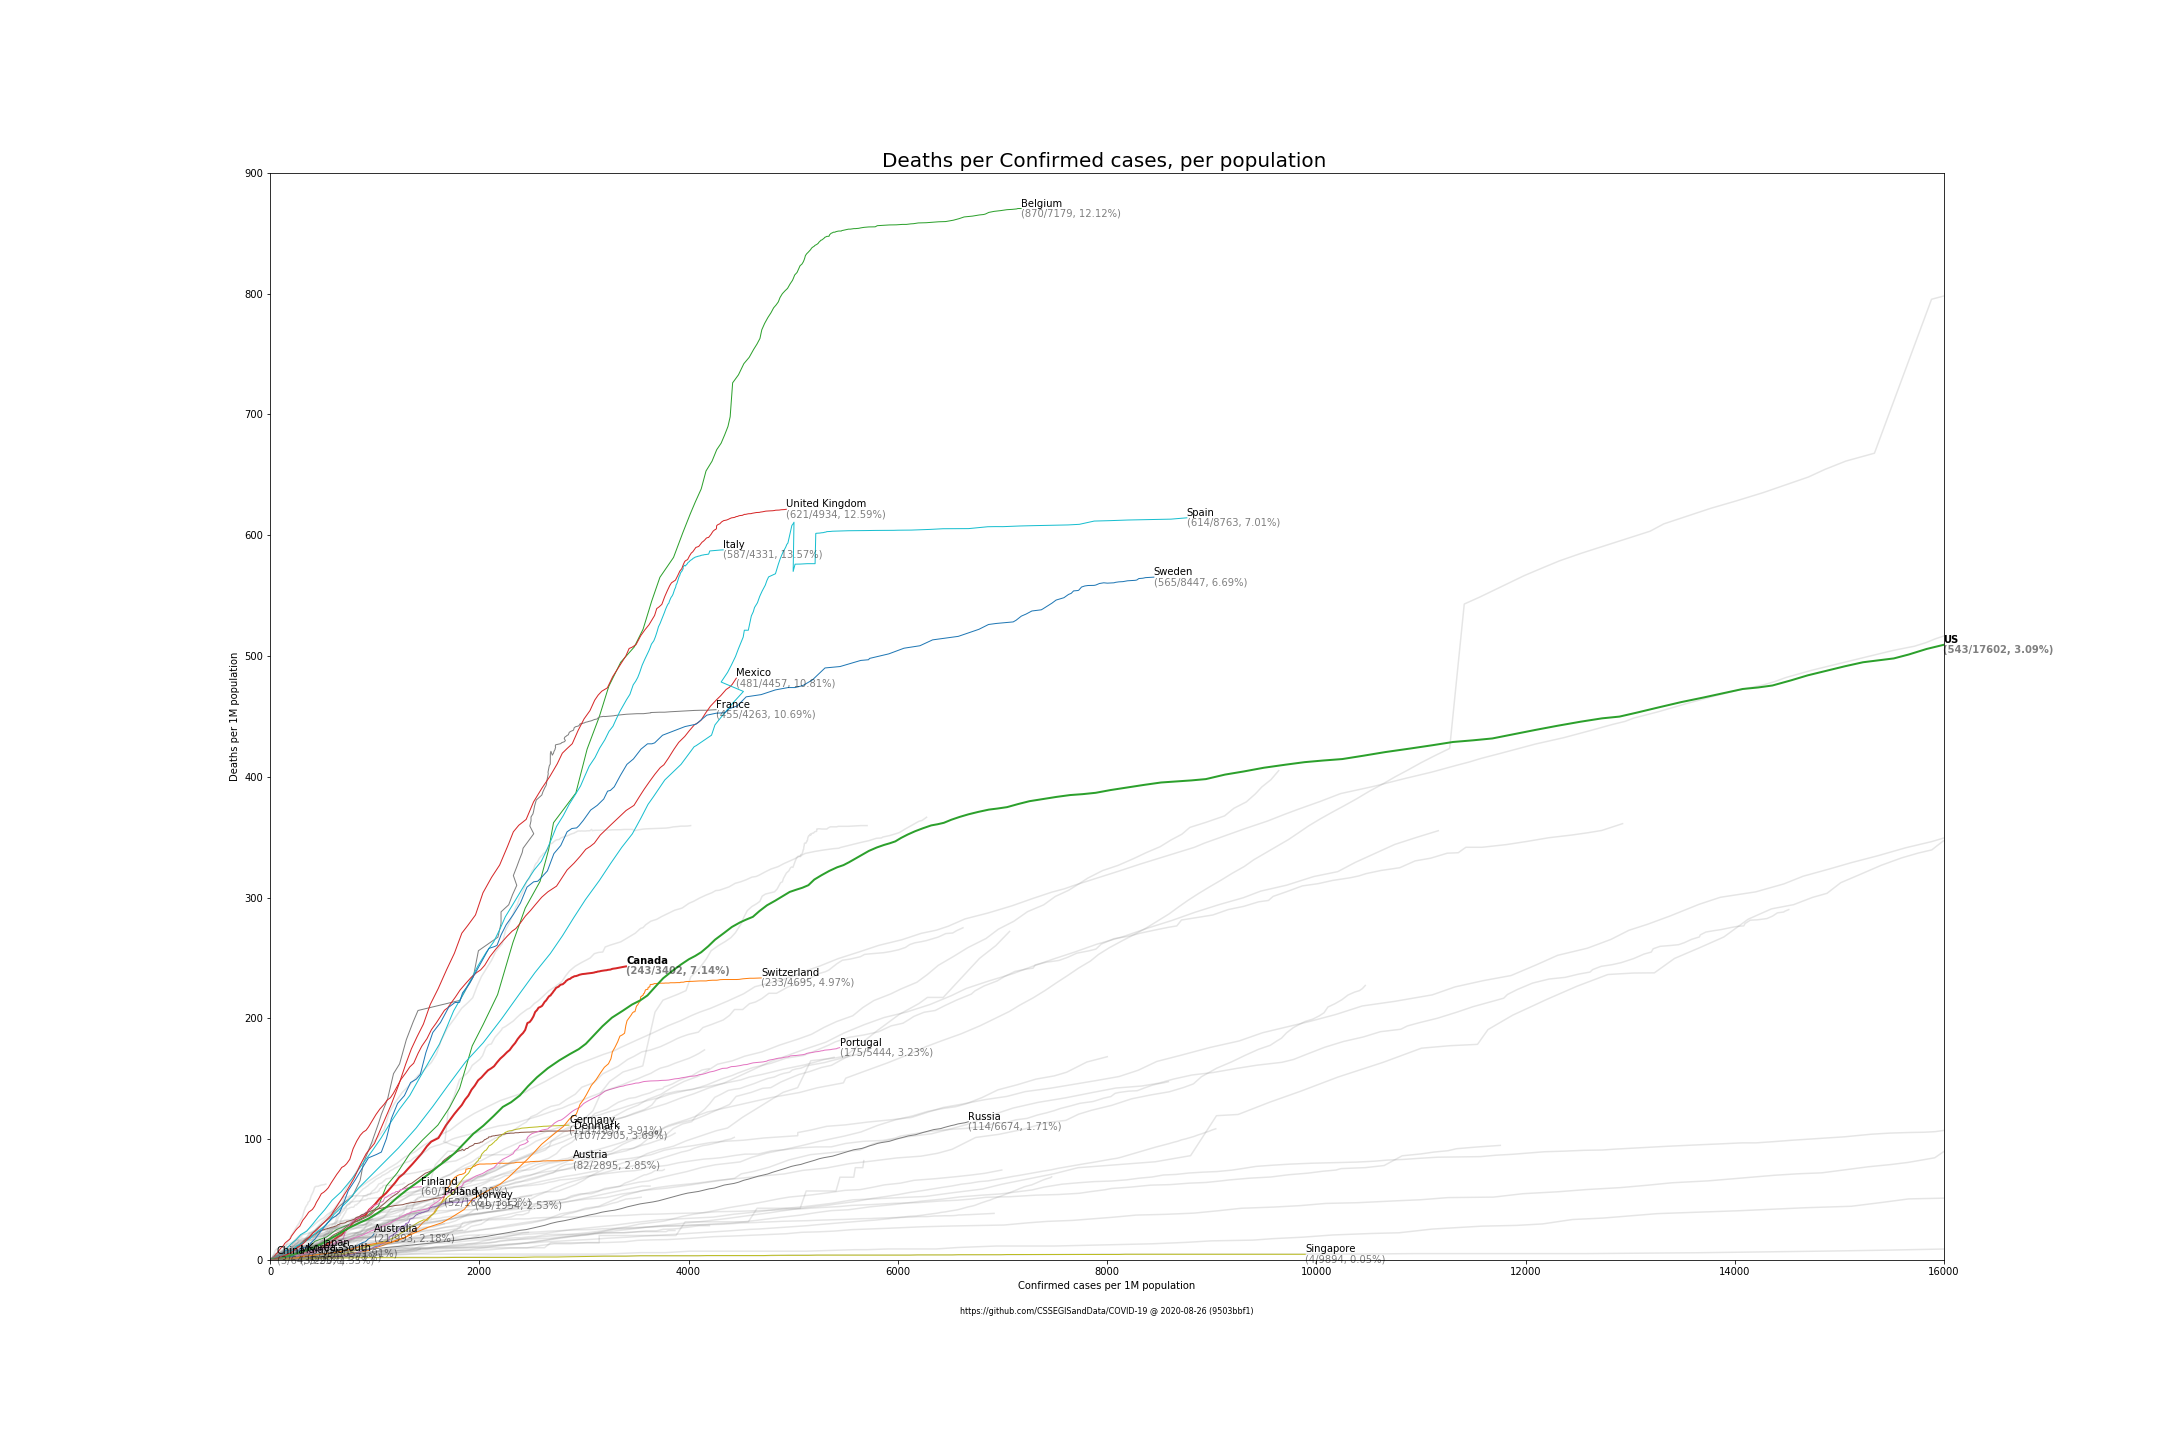
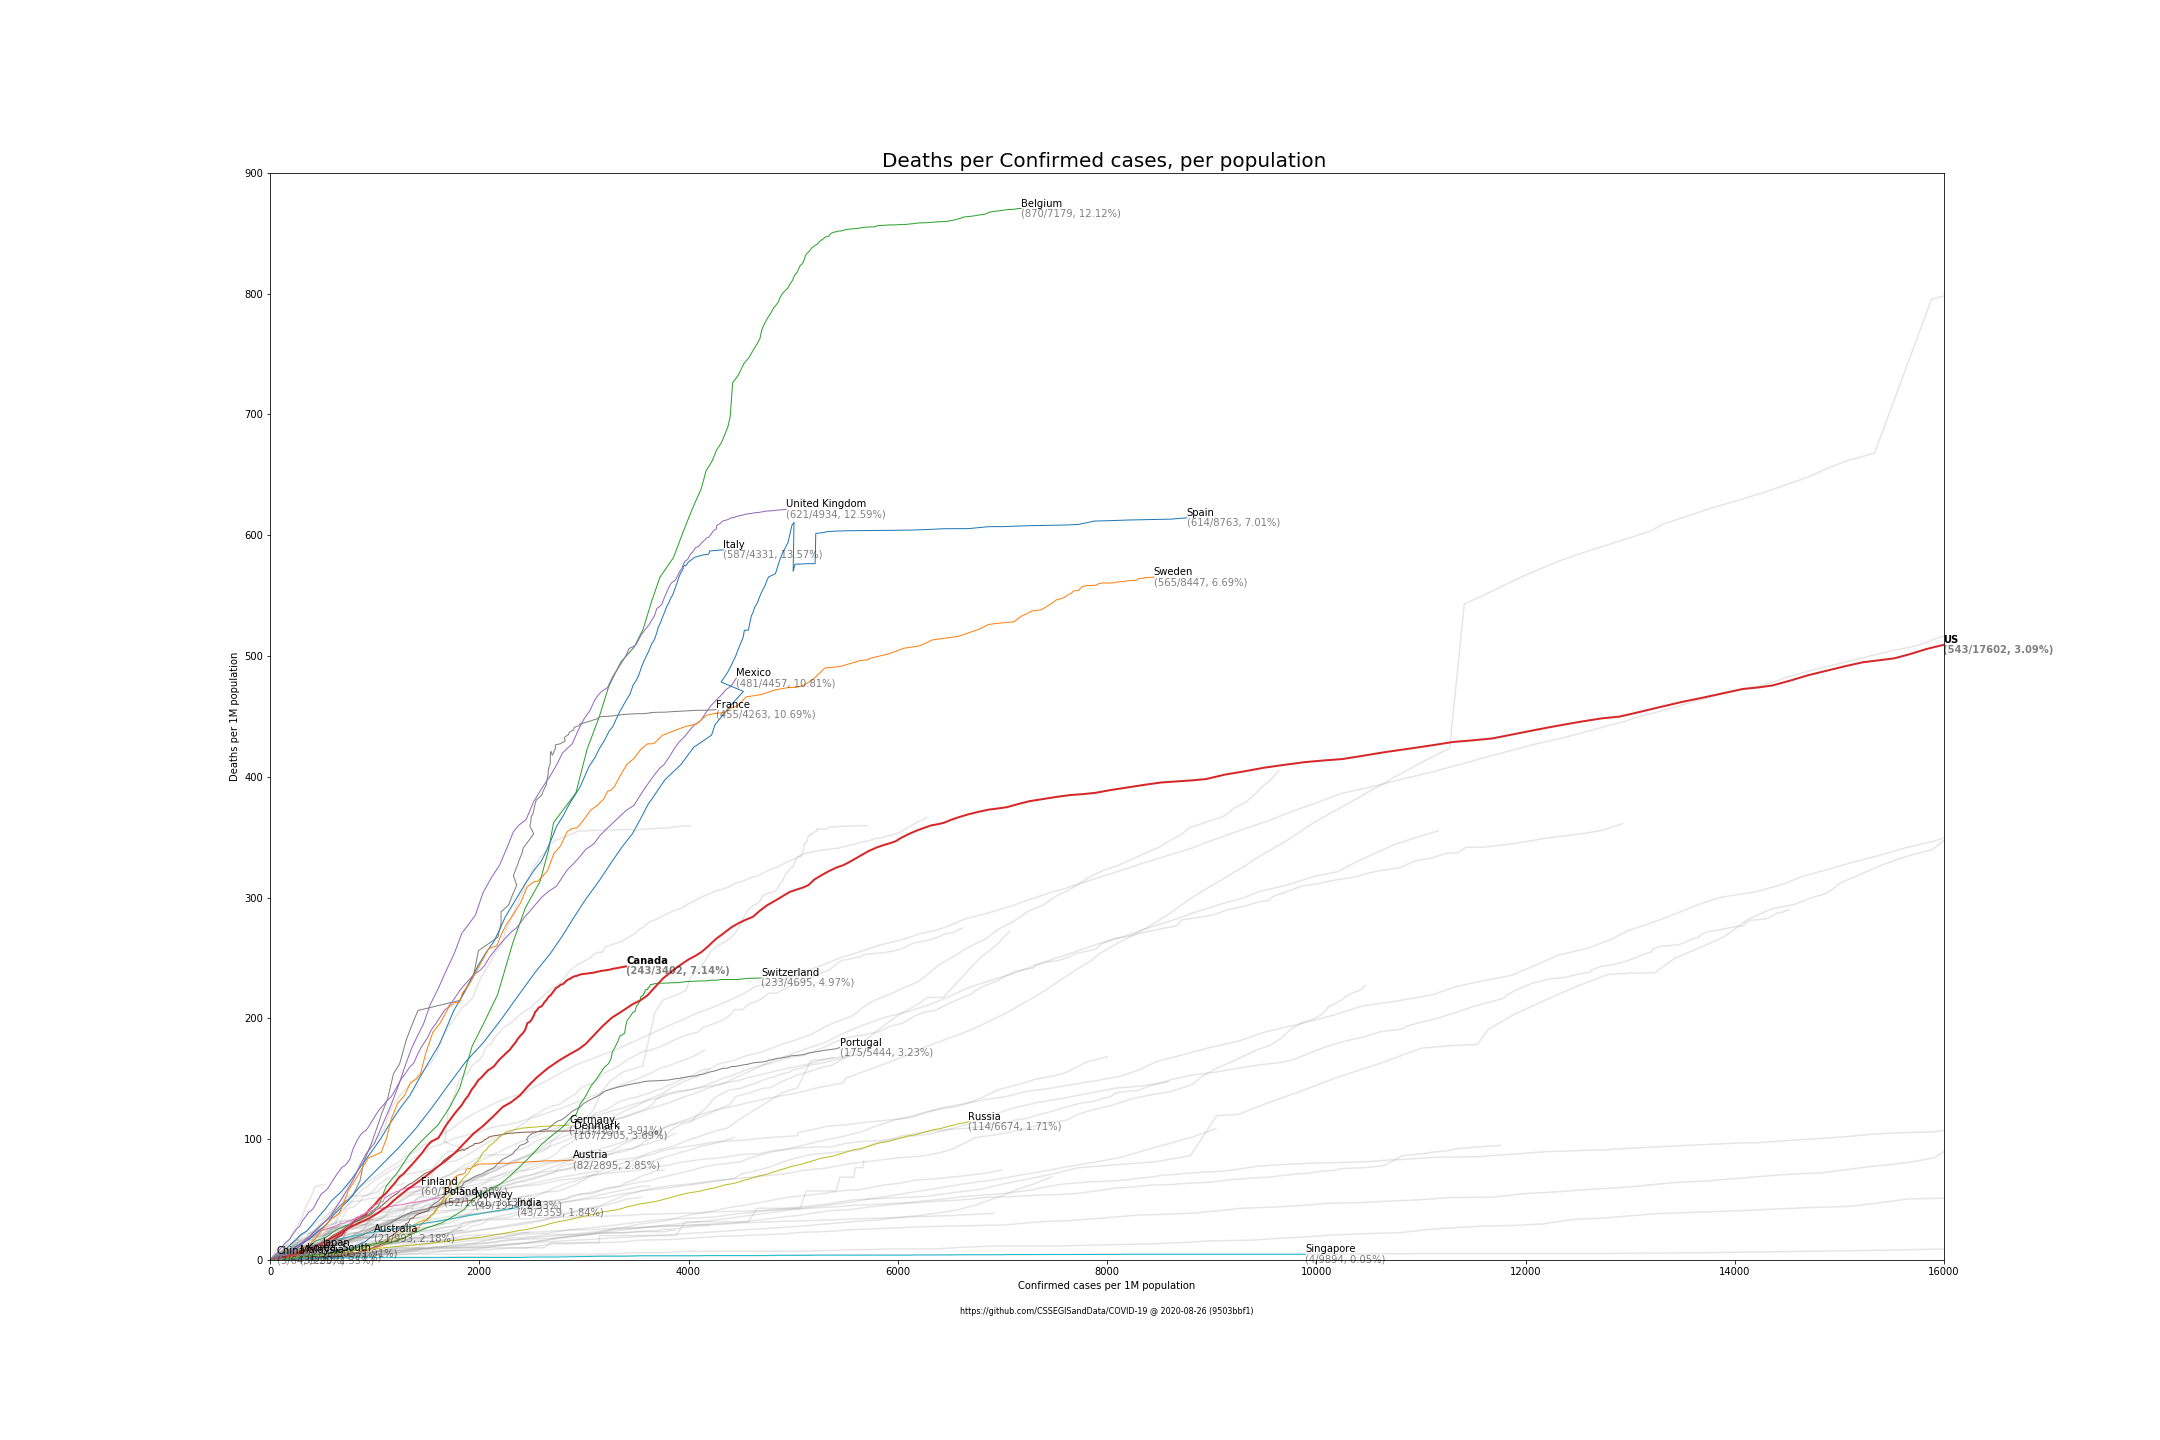
replot

Changed region(s): [[0.1241, 0.7812, 0.2481, 0.875], [0.1861, 0.6875, 0.2171, 0.75]]

diff --git a/covid19plot/plot.py b/covid19plot/plot.py
@@ -106,7 +106,7 @@ def sinceplot(data, fig=None, ax=None,
                'Russia':'Russian Federation'}
 
     # countries we want to show in colour...
-    focus = ['Canada','US','China','Korea, South','United Kingdom','Poland','Mexico','Italy','Spain','France','Germany','Russia','Japan','Belgium','Norway','Austria','Australia','Sweden','Denmark','Singapore','Malaysia','Switzerland','Finland','Portugal']
+    focus = ['Canada','US','China','Korea, South','United Kingdom','Poland','Mexico','Italy','Spain','France','Germany','Russia','Japan','Belgium','Norway','Austria','Australia','Sweden','Denmark','Singapore','Malaysia','Switzerland','Finland','Portugal','India']
     #focus = ['Canada','US']
 
     # aggregate data...
@@ -305,7 +305,7 @@ def severityplot(data, fig=None, ax=None, logScale = False, quick=False,
     if quick:
         focus = ['Canada','US']
     else:
-        focus = ['Canada','US','China','Korea, South','United Kingdom','Poland','Mexico','Italy','Spain','France','Germany','Russia','Japan','Belgium','Norway','Austria','Australia','Sweden','Denmark','Singapore','Malaysia','Switzerland','Finland','Portugal']
+        focus = ['Canada','US','China','Korea, South','United Kingdom','Poland','Mexico','Italy','Spain','France','Germany','Russia','Japan','Belgium','Norway','Austria','Australia','Sweden','Denmark','Singapore','Malaysia','Switzerland','Finland','Portugal','India']
 
     # aggregate data...
     pc = ['Country/Region', 'Province/State', 'Date', 'Confirmed', 'ConfirmedIncrease', 'Deaths', 'DeathsIncrease', 'Recovered', 'RecoveredIncrease', 'Active', 'ActiveIncrease']
